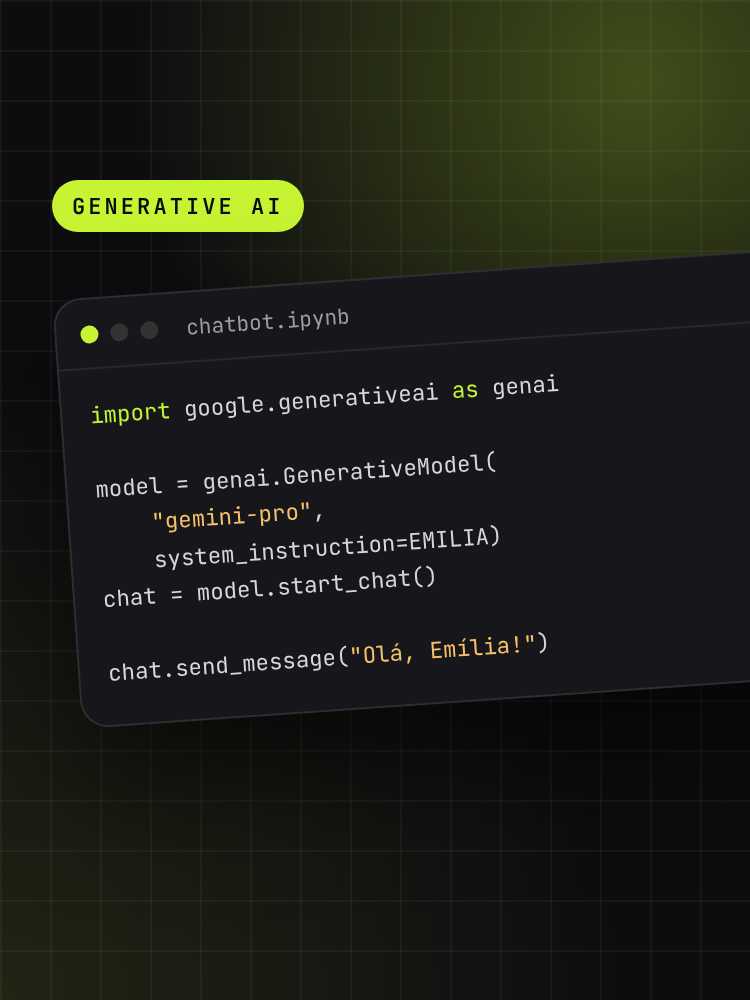
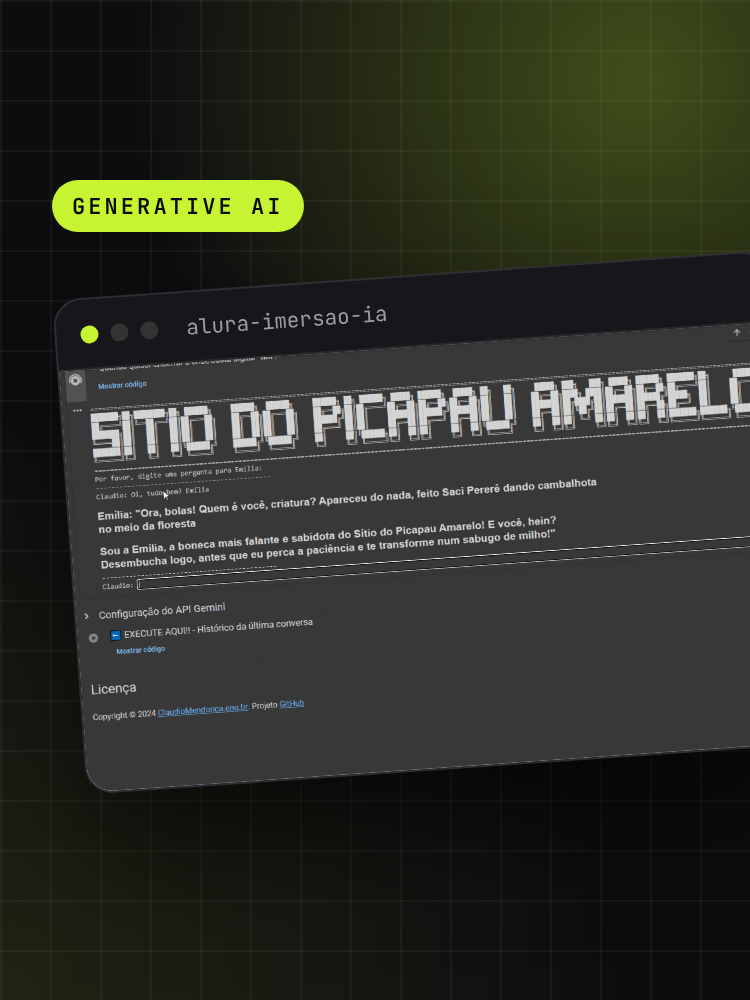
Coloca todos os repositórios próprios no carrossel (37 projetos)
Adiciona 24 cards com os repositórios públicos que faltavam (sem forks
e sem o perfil/site). Capas novas em projects-15..38.png: quando o
README tem print do projeto, ele vira a base da capa; os demais usam
uma janela de código ilustrativa no estilo do site. A capa do chatbot
do Sítio do Picapau Amarelo também passou a usar o print do projeto.
Textos em EN (HTML) e PT (main.js), cards renumerados e contador 37.

Claude-Session: https://claude.ai/code/session_01P6UAmbTko93hFvc8inS2bz

diff --git a/index.html b/index.html
@@ -93,7 +93,7 @@
 
         <div class="cm-container">
           <ul class="cm-stats">
-            <li><strong><span class="cm-count" data-count="13">13</span><em>+</em></strong><span data-i18n="stat1">Featured projects</span></li>
+            <li><strong><span class="cm-count" data-count="37">37</span><em>+</em></strong><span data-i18n="stat1">Featured projects</span></li>
             <li><strong><span class="cm-count" data-count="17">17</span></strong><span data-i18n="stat2">CTF flags captured</span></li>
             <li><strong><span class="cm-count" data-count="3">3</span></strong><span data-i18n="stat3">Professional recommendations</span></li>
           </ul>
@@ -286,6 +286,318 @@
               <p data-i18n="p02Desc">Secret number game.</p>
               <ul class="cm-tags"><li>JavaScript</li><li>HTML</li><li>CSS</li></ul>
               <a class="cm-card__link" href="https://github.com/ClaudioMendonca-Eng/Alura-Oracle-logicadeprog-JavaScript-parte2" target="_blank" rel="noopener"><span data-i18n="viewProject">View project</span> <i class="ri-arrow-right-up-line"></i></a>
+            </div>
+          </article>
+
+          <article class="cm-card" id="project14">
+            <a class="cm-card__media" href="https://github.com/ClaudioMendonca-Eng/ONE-Oracle-Alura-AI-For-Tech" target="_blank" rel="noopener" tabindex="-1" aria-hidden="true">
+              <img src="assets/images/projects-15.png" alt="" loading="lazy" width="375" height="500">
+            </a>
+            <div class="cm-card__body">
+              <span class="cm-card__num">14</span>
+              <h3 data-i18n="p14Title">AI Agents Immersion - Oracle ONE</h3>
+              <p data-i18n="p14Desc">Five-day journey building AI agents: RAG ingestion with embeddings and a vector store, an agent with memory that queries MySQL, and a Telegram integration for real automation.</p>
+              <ul class="cm-tags"><li>n8n</li><li>RAG</li><li>Telegram</li></ul>
+              <a class="cm-card__link" href="https://github.com/ClaudioMendonca-Eng/ONE-Oracle-Alura-AI-For-Tech" target="_blank" rel="noopener"><span data-i18n="viewProject">View project</span> <i class="ri-arrow-right-up-line"></i></a>
+            </div>
+          </article>
+
+          <article class="cm-card" id="project15">
+            <a class="cm-card__media" href="https://github.com/ClaudioMendonca-Eng/Kensei_AI_Foundations" target="_blank" rel="noopener" tabindex="-1" aria-hidden="true">
+              <img src="assets/images/projects-16.png" alt="" loading="lazy" width="375" height="500">
+            </a>
+            <div class="cm-card__body">
+              <span class="cm-card__num">15</span>
+              <h3 data-i18n="p15Title">Kensei AI Foundations</h3>
+              <p data-i18n="p15Desc">Eight-week hands-on track on AI, data and automation: Python from scratch, data analysis with Pandas, interactive dashboards and AI APIs, building a portfolio of real projects.</p>
+              <ul class="cm-tags"><li>Python</li><li>Pandas</li><li>AI</li></ul>
+              <a class="cm-card__link" href="https://github.com/ClaudioMendonca-Eng/Kensei_AI_Foundations" target="_blank" rel="noopener"><span data-i18n="viewProject">View project</span> <i class="ri-arrow-right-up-line"></i></a>
+            </div>
+          </article>
+
+          <article class="cm-card" id="project21">
+            <a class="cm-card__media" href="https://github.com/ClaudioMendonca-Eng/dio-assistentedelivery" target="_blank" rel="noopener" tabindex="-1" aria-hidden="true">
+              <img src="assets/images/projects-22.png" alt="" loading="lazy" width="375" height="500">
+            </a>
+            <div class="cm-card__body">
+              <span class="cm-card__num">16</span>
+              <h3 data-i18n="p21Title">Delivery Assistant - AWS</h3>
+              <p data-i18n="p21Desc">Study of a workflow with AWS Step Functions and Amazon Bedrock to automate a delivery assistant, from receiving the order to the final delivery.</p>
+              <ul class="cm-tags"><li>AWS</li><li>Step Functions</li><li>Bedrock</li></ul>
+              <a class="cm-card__link" href="https://github.com/ClaudioMendonca-Eng/dio-assistentedelivery" target="_blank" rel="noopener"><span data-i18n="viewProject">View project</span> <i class="ri-arrow-right-up-line"></i></a>
+            </div>
+          </article>
+
+          <article class="cm-card" id="project22">
+            <a class="cm-card__media" href="https://github.com/ClaudioMendonca-Eng/dio-desafio-microsoft-copilot-ia" target="_blank" rel="noopener" tabindex="-1" aria-hidden="true">
+              <img src="assets/images/projects-23.png" alt="" loading="lazy" width="375" height="500">
+            </a>
+            <div class="cm-card__body">
+              <span class="cm-card__num">17</span>
+              <h3 data-i18n="p22Title">Microsoft Copilot Challenge</h3>
+              <p data-i18n="p22Desc">Bootcamp project using GitHub Copilot for pair programming, code review and refactoring, plus Copilot Studio and generative AI to speed up everyday work.</p>
+              <ul class="cm-tags"><li>Copilot</li><li>AI</li><li>UML</li></ul>
+              <a class="cm-card__link" href="https://github.com/ClaudioMendonca-Eng/dio-desafio-microsoft-copilot-ia" target="_blank" rel="noopener"><span data-i18n="viewProject">View project</span> <i class="ri-arrow-right-up-line"></i></a>
+            </div>
+          </article>
+
+          <article class="cm-card" id="project24">
+            <a class="cm-card__media" href="https://github.com/ClaudioMendonca-Eng/alura-literatura2024" target="_blank" rel="noopener" tabindex="-1" aria-hidden="true">
+              <img src="assets/images/projects-25.png" alt="" loading="lazy" width="375" height="500">
+            </a>
+            <div class="cm-card__body">
+              <span class="cm-card__num">18</span>
+              <h3 data-i18n="p24Title">LiterAlura</h3>
+              <p data-i18n="p24Desc">Java application that consumes the Gutendex API (Project Gutenberg catalog) and stores books and authors in a relational database.</p>
+              <ul class="cm-tags"><li>Java</li><li>Spring Boot</li><li>SQL</li></ul>
+              <a class="cm-card__link" href="https://github.com/ClaudioMendonca-Eng/alura-literatura2024" target="_blank" rel="noopener"><span data-i18n="viewProject">View project</span> <i class="ri-arrow-right-up-line"></i></a>
+            </div>
+          </article>
+
+          <article class="cm-card" id="project27">
+            <a class="cm-card__media" href="https://github.com/ClaudioMendonca-Eng/alura-screenmatch" target="_blank" rel="noopener" tabindex="-1" aria-hidden="true">
+              <img src="assets/images/projects-28.png" alt="" loading="lazy" width="375" height="500">
+            </a>
+            <div class="cm-card__body">
+              <span class="cm-card__num">19</span>
+              <h3 data-i18n="p27Title">ScreenMatch</h3>
+              <p data-i18n="p27Desc">Java and Spring project that queries series data, ranks the top 5 episodes, searches by date and generates statistics per season using streams.</p>
+              <ul class="cm-tags"><li>Java</li><li>Spring</li><li>Streams</li></ul>
+              <a class="cm-card__link" href="https://github.com/ClaudioMendonca-Eng/alura-screenmatch" target="_blank" rel="noopener"><span data-i18n="viewProject">View project</span> <i class="ri-arrow-right-up-line"></i></a>
+            </div>
+          </article>
+
+          <article class="cm-card" id="project23">
+            <a class="cm-card__media" href="https://github.com/ClaudioMendonca-Eng/dio-desafio-design-patterns-java" target="_blank" rel="noopener" tabindex="-1" aria-hidden="true">
+              <img src="assets/images/projects-24.png" alt="" loading="lazy" width="375" height="500">
+            </a>
+            <div class="cm-card__body">
+              <span class="cm-card__num">20</span>
+              <h3 data-i18n="p23Title">Design Patterns in Java</h3>
+              <p data-i18n="p23Desc">Java project applying the Singleton, Strategy/Repository and Facade patterns, from the Santander Bootcamp 2024 back-end track.</p>
+              <ul class="cm-tags"><li>Java</li><li>Spring</li><li>Patterns</li></ul>
+              <a class="cm-card__link" href="https://github.com/ClaudioMendonca-Eng/dio-desafio-design-patterns-java" target="_blank" rel="noopener"><span data-i18n="viewProject">View project</span> <i class="ri-arrow-right-up-line"></i></a>
+            </div>
+          </article>
+
+          <article class="cm-card" id="project26">
+            <a class="cm-card__media" href="https://github.com/ClaudioMendonca-Eng/dio-lab-banco-digital-poo" target="_blank" rel="noopener" tabindex="-1" aria-hidden="true">
+              <img src="assets/images/projects-27.png" alt="" loading="lazy" width="375" height="500">
+            </a>
+            <div class="cm-card__body">
+              <span class="cm-card__num">21</span>
+              <h3 data-i18n="p26Title">Digital Bank</h3>
+              <p data-i18n="p26Desc">Object-oriented banking solution in Java with checking and savings accounts that support deposits, withdrawals and transfers between accounts.</p>
+              <ul class="cm-tags"><li>Java</li><li>OOP</li><li>CLI</li></ul>
+              <a class="cm-card__link" href="https://github.com/ClaudioMendonca-Eng/dio-lab-banco-digital-poo" target="_blank" rel="noopener"><span data-i18n="viewProject">View project</span> <i class="ri-arrow-right-up-line"></i></a>
+            </div>
+          </article>
+
+          <article class="cm-card" id="project25">
+            <a class="cm-card__media" href="https://github.com/ClaudioMendonca-Eng/dio-desafio-poo" target="_blank" rel="noopener" tabindex="-1" aria-hidden="true">
+              <img src="assets/images/projects-26.png" alt="" loading="lazy" width="375" height="500">
+            </a>
+            <div class="cm-card__body">
+              <span class="cm-card__num">22</span>
+              <h3 data-i18n="p25Title">Bootcamp - Java OOP</h3>
+              <p data-i18n="p25Desc">A bootcamp domain modeled in Java to practice the four OOP pillars: abstraction, encapsulation, inheritance and polymorphism.</p>
+              <ul class="cm-tags"><li>Java</li><li>OOP</li><li>CLI</li></ul>
+              <a class="cm-card__link" href="https://github.com/ClaudioMendonca-Eng/dio-desafio-poo" target="_blank" rel="noopener"><span data-i18n="viewProject">View project</span> <i class="ri-arrow-right-up-line"></i></a>
+            </div>
+          </article>
+
+          <article class="cm-card" id="project28">
+            <a class="cm-card__media" href="https://github.com/ClaudioMendonca-Eng/dio-collections-java-api" target="_blank" rel="noopener" tabindex="-1" aria-hidden="true">
+              <img src="assets/images/projects-29.png" alt="" loading="lazy" width="375" height="500">
+            </a>
+            <div class="cm-card__body">
+              <span class="cm-card__num">23</span>
+              <h3 data-i18n="p28Title">Java Collections API</h3>
+              <p data-i18n="p28Desc">Practical examples of the Java Collections Framework (List, Set and Map) applied to everyday scenarios, from the Santander Bootcamp 2024.</p>
+              <ul class="cm-tags"><li>Java</li><li>Collections</li><li>Generics</li></ul>
+              <a class="cm-card__link" href="https://github.com/ClaudioMendonca-Eng/dio-collections-java-api" target="_blank" rel="noopener"><span data-i18n="viewProject">View project</span> <i class="ri-arrow-right-up-line"></i></a>
+            </div>
+          </article>
+
+          <article class="cm-card" id="project33">
+            <a class="cm-card__media" href="https://github.com/ClaudioMendonca-Eng/Challenge-ONE-Conversor-Moedas-22-04-2024" target="_blank" rel="noopener" tabindex="-1" aria-hidden="true">
+              <img src="assets/images/projects-34.png" alt="" loading="lazy" width="375" height="500">
+            </a>
+            <div class="cm-card__body">
+              <span class="cm-card__num">24</span>
+              <h3 data-i18n="p33Title">Currency Converter</h3>
+              <p data-i18n="p33Desc">Interactive console app in Java that fetches real-time exchange rates from an API and converts between six currency pairs.</p>
+              <ul class="cm-tags"><li>Java</li><li>API</li><li>JSON</li></ul>
+              <a class="cm-card__link" href="https://github.com/ClaudioMendonca-Eng/Challenge-ONE-Conversor-Moedas-22-04-2024" target="_blank" rel="noopener"><span data-i18n="viewProject">View project</span> <i class="ri-arrow-right-up-line"></i></a>
+            </div>
+          </article>
+
+          <article class="cm-card" id="project19">
+            <a class="cm-card__media" href="https://github.com/ClaudioMendonca-Eng/VaiNaWeb-APIfixe" target="_blank" rel="noopener" tabindex="-1" aria-hidden="true">
+              <img src="assets/images/projects-20.png" alt="" loading="lazy" width="375" height="500">
+            </a>
+            <div class="cm-card__body">
+              <span class="cm-card__num">25</span>
+              <h3 data-i18n="p19Title">Rick and Morty API</h3>
+              <p data-i18n="p19Desc">JavaScript exercise that renders an array of objects in HTML with map() and fetches characters dynamically from the Rick and Morty API.</p>
+              <ul class="cm-tags"><li>JavaScript</li><li>API</li><li>Vercel</li></ul>
+              <a class="cm-card__link" href="https://github.com/ClaudioMendonca-Eng/VaiNaWeb-APIfixe" target="_blank" rel="noopener"><span data-i18n="viewProject">View project</span> <i class="ri-arrow-right-up-line"></i></a>
+            </div>
+          </article>
+
+          <article class="cm-card" id="project20">
+            <a class="cm-card__media" href="https://github.com/ClaudioMendonca-Eng/VaiNaWeb-Desafio" target="_blank" rel="noopener" tabindex="-1" aria-hidden="true">
+              <img src="assets/images/projects-21.png" alt="" loading="lazy" width="375" height="500">
+            </a>
+            <div class="cm-card__body">
+              <span class="cm-card__num">26</span>
+              <h3 data-i18n="p20Title">Landing Page from Figma</h3>
+              <p data-i18n="p20Desc">Landing page built from a Figma design with HTML5 and Sass, focused on good coding practices and file organization, deployed on Vercel.</p>
+              <ul class="cm-tags"><li>HTML</li><li>Sass</li><li>Figma</li></ul>
+              <a class="cm-card__link" href="https://github.com/ClaudioMendonca-Eng/VaiNaWeb-Desafio" target="_blank" rel="noopener"><span data-i18n="viewProject">View project</span> <i class="ri-arrow-right-up-line"></i></a>
+            </div>
+          </article>
+
+          <article class="cm-card" id="project30">
+            <a class="cm-card__media" href="https://github.com/ClaudioMendonca-Eng/Alura-Oracle-HTMLeCSS" target="_blank" rel="noopener" tabindex="-1" aria-hidden="true">
+              <img src="assets/images/projects-31.png" alt="" loading="lazy" width="375" height="500">
+            </a>
+            <div class="cm-card__body">
+              <span class="cm-card__num">27</span>
+              <h3 data-i18n="p30Title">HTML and CSS - Oracle ONE</h3>
+              <p data-i18n="p30Desc">First steps with HTML and CSS in the Oracle ONE program, building a portfolio page with semantic structure and styling.</p>
+              <ul class="cm-tags"><li>HTML</li><li>CSS</li><li>Vercel</li></ul>
+              <a class="cm-card__link" href="https://github.com/ClaudioMendonca-Eng/Alura-Oracle-HTMLeCSS" target="_blank" rel="noopener"><span data-i18n="viewProject">View project</span> <i class="ri-arrow-right-up-line"></i></a>
+            </div>
+          </article>
+
+          <article class="cm-card" id="project16">
+            <a class="cm-card__media" href="https://github.com/ClaudioMendonca-Eng/Ja-e-Natal-Na-Vai-na-Web" target="_blank" rel="noopener" tabindex="-1" aria-hidden="true">
+              <img src="assets/images/projects-17.png" alt="" loading="lazy" width="375" height="500">
+            </a>
+            <div class="cm-card__body">
+              <span class="cm-card__num">28</span>
+              <h3 data-i18n="p16Title">Christmas Card - Vai na Web</h3>
+              <p data-i18n="p16Desc">Interactive Christmas page made for the Vai na Web community challenge, with a personalized greeting card that can be downloaded.</p>
+              <ul class="cm-tags"><li>HTML</li><li>CSS</li><li>JavaScript</li></ul>
+              <a class="cm-card__link" href="https://github.com/ClaudioMendonca-Eng/Ja-e-Natal-Na-Vai-na-Web" target="_blank" rel="noopener"><span data-i18n="viewProject">View project</span> <i class="ri-arrow-right-up-line"></i></a>
+            </div>
+          </article>
+
+          <article class="cm-card" id="project18">
+            <a class="cm-card__media" href="https://github.com/ClaudioMendonca-Eng/VaiNaWeb-PhytonDesafio1" target="_blank" rel="noopener" tabindex="-1" aria-hidden="true">
+              <img src="assets/images/projects-19.png" alt="" loading="lazy" width="375" height="500">
+            </a>
+            <div class="cm-card__body">
+              <span class="cm-card__num">29</span>
+              <h3 data-i18n="p18Title">Python Challenge - Vai na Web</h3>
+              <p data-i18n="p18Desc">A set of Python missions to restore a school system hacked by a virus: checking grades, access permissions and security rules.</p>
+              <ul class="cm-tags"><li>Python</li><li>Logic</li><li>CLI</li></ul>
+              <a class="cm-card__link" href="https://github.com/ClaudioMendonca-Eng/VaiNaWeb-PhytonDesafio1" target="_blank" rel="noopener"><span data-i18n="viewProject">View project</span> <i class="ri-arrow-right-up-line"></i></a>
+            </div>
+          </article>
+
+          <article class="cm-card" id="project31">
+            <a class="cm-card__media" href="https://github.com/ClaudioMendonca-Eng/dio-trilha-java-basico-controle-fluxo" target="_blank" rel="noopener" tabindex="-1" aria-hidden="true">
+              <img src="assets/images/projects-32.png" alt="" loading="lazy" width="375" height="500">
+            </a>
+            <div class="cm-card__body">
+              <span class="cm-card__num">30</span>
+              <h3 data-i18n="p31Title">Counter - Flow Control</h3>
+              <p data-i18n="p31Desc">Console counter in Java that takes two numbers from the terminal and exercises conditionals, loops and custom exceptions.</p>
+              <ul class="cm-tags"><li>Java</li><li>CLI</li><li>Exceptions</li></ul>
+              <a class="cm-card__link" href="https://github.com/ClaudioMendonca-Eng/dio-trilha-java-basico-controle-fluxo" target="_blank" rel="noopener"><span data-i18n="viewProject">View project</span> <i class="ri-arrow-right-up-line"></i></a>
+            </div>
+          </article>
+
+          <article class="cm-card" id="project32">
+            <a class="cm-card__media" href="https://github.com/ClaudioMendonca-Eng/dio-trilha-java-basico" target="_blank" rel="noopener" tabindex="-1" aria-hidden="true">
+              <img src="assets/images/projects-33.png" alt="" loading="lazy" width="375" height="500">
+            </a>
+            <div class="cm-card__body">
+              <span class="cm-card__num">31</span>
+              <h3 data-i18n="p32Title">Java Bank - Account Opening</h3>
+              <p data-i18n="p32Desc">Console challenge from DIO's Java Developer track that registers a customer and opens a bank account, practicing the language fundamentals.</p>
+              <ul class="cm-tags"><li>Java</li><li>CLI</li><li>OOP</li></ul>
+              <a class="cm-card__link" href="https://github.com/ClaudioMendonca-Eng/dio-trilha-java-basico" target="_blank" rel="noopener"><span data-i18n="viewProject">View project</span> <i class="ri-arrow-right-up-line"></i></a>
+            </div>
+          </article>
+
+          <article class="cm-card" id="project29">
+            <a class="cm-card__media" href="https://github.com/ClaudioMendonca-Eng/dio-trilha-java-basico-poo-desafio" target="_blank" rel="noopener" tabindex="-1" aria-hidden="true">
+              <img src="assets/images/projects-30.png" alt="" loading="lazy" width="375" height="500">
+            </a>
+            <div class="cm-card__body">
+              <span class="cm-card__num">32</span>
+              <h3 data-i18n="p29Title">iPhone UML - OOP</h3>
+              <p data-i18n="p29Desc">UML class diagram modeling the iPhone's roles as music player, phone and web browser, based on its launch keynote.</p>
+              <ul class="cm-tags"><li>UML</li><li>OOP</li><li>Java</li></ul>
+              <a class="cm-card__link" href="https://github.com/ClaudioMendonca-Eng/dio-trilha-java-basico-poo-desafio" target="_blank" rel="noopener"><span data-i18n="viewProject">View project</span> <i class="ri-arrow-right-up-line"></i></a>
+            </div>
+          </article>
+
+          <article class="cm-card" id="project34">
+            <a class="cm-card__media" href="https://github.com/ClaudioMendonca-Eng/CS50_Harvard-CC50_Ifood" target="_blank" rel="noopener" tabindex="-1" aria-hidden="true">
+              <img src="assets/images/projects-35.png" alt="" loading="lazy" width="375" height="500">
+            </a>
+            <div class="cm-card__body">
+              <span class="cm-card__num">33</span>
+              <h3 data-i18n="p34Title">CS50 - Harvard</h3>
+              <p data-i18n="p34Desc">Notes and exercises from Harvard's CS50 introduction to computer science, starting with a Google Dinosaur game made in Scratch and moving on to C, arrays and algorithms.</p>
+              <ul class="cm-tags"><li>C</li><li>Scratch</li><li>Algorithms</li></ul>
+              <a class="cm-card__link" href="https://github.com/ClaudioMendonca-Eng/CS50_Harvard-CC50_Ifood" target="_blank" rel="noopener"><span data-i18n="viewProject">View project</span> <i class="ri-arrow-right-up-line"></i></a>
+            </div>
+          </article>
+
+          <article class="cm-card" id="project35">
+            <a class="cm-card__media" href="https://github.com/ClaudioMendonca-Eng/Alura-Oracle-logicadeprog-JavaScript" target="_blank" rel="noopener" tabindex="-1" aria-hidden="true">
+              <img src="assets/images/projects-36.png" alt="" loading="lazy" width="375" height="500">
+            </a>
+            <div class="cm-card__body">
+              <span class="cm-card__num">34</span>
+              <h3 data-i18n="p35Title">Programming Logic - JavaScript</h3>
+              <p data-i18n="p35Desc">Programming logic fundamentals with JavaScript in the Oracle ONE program, building a secret number game step by step.</p>
+              <ul class="cm-tags"><li>JavaScript</li><li>HTML</li><li>CSS</li></ul>
+              <a class="cm-card__link" href="https://github.com/ClaudioMendonca-Eng/Alura-Oracle-logicadeprog-JavaScript" target="_blank" rel="noopener"><span data-i18n="viewProject">View project</span> <i class="ri-arrow-right-up-line"></i></a>
+            </div>
+          </article>
+
+          <article class="cm-card" id="project36">
+            <a class="cm-card__media" href="https://github.com/ClaudioMendonca-Eng/Udemy-Docker-Ferramenta-essencial-para-Desenvolvedores" target="_blank" rel="noopener" tabindex="-1" aria-hidden="true">
+              <img src="assets/images/projects-37.png" alt="" loading="lazy" width="375" height="500">
+            </a>
+            <div class="cm-card__body">
+              <span class="cm-card__num">35</span>
+              <h3 data-i18n="p36Title">Docker for Developers</h3>
+              <p data-i18n="p36Desc">Study notes and exercises on Docker: images, containers, networks, Docker Compose and multi-container projects, including an email worker service.</p>
+              <ul class="cm-tags"><li>Docker</li><li>Compose</li><li>Linux</li></ul>
+              <a class="cm-card__link" href="https://github.com/ClaudioMendonca-Eng/Udemy-Docker-Ferramenta-essencial-para-Desenvolvedores" target="_blank" rel="noopener"><span data-i18n="viewProject">View project</span> <i class="ri-arrow-right-up-line"></i></a>
+            </div>
+          </article>
+
+          <article class="cm-card" id="project17">
+            <a class="cm-card__media" href="https://github.com/ClaudioMendonca-Eng/pipe-mario" target="_blank" rel="noopener" tabindex="-1" aria-hidden="true">
+              <img src="assets/images/projects-18.png" alt="" loading="lazy" width="375" height="500">
+            </a>
+            <div class="cm-card__body">
+              <span class="cm-card__num">36</span>
+              <h3 data-i18n="p17Title">Pipe Mario - Useful Links</h3>
+              <p data-i18n="p17Desc">A curated collection of useful links on programming, development tools, productivity, design and learning, gathered in one place.</p>
+              <ul class="cm-tags"><li>Markdown</li><li>Resources</li><li>Dev tools</li></ul>
+              <a class="cm-card__link" href="https://github.com/ClaudioMendonca-Eng/pipe-mario" target="_blank" rel="noopener"><span data-i18n="viewProject">View project</span> <i class="ri-arrow-right-up-line"></i></a>
+            </div>
+          </article>
+
+          <article class="cm-card" id="project37">
+            <a class="cm-card__media" href="https://github.com/ClaudioMendonca-Eng/oldnpm" target="_blank" rel="noopener" tabindex="-1" aria-hidden="true">
+              <img src="assets/images/projects-38.png" alt="" loading="lazy" width="375" height="500">
+            </a>
+            <div class="cm-card__body">
+              <span class="cm-card__num">37</span>
+              <h3 data-i18n="p37Title">Old NPM</h3>
+              <p data-i18n="p37Desc">Archive of old npm packages kept for reference.</p>
+              <ul class="cm-tags"><li>Node.js</li><li>npm</li><li>Archive</li></ul>
+              <a class="cm-card__link" href="https://github.com/ClaudioMendonca-Eng/oldnpm" target="_blank" rel="noopener"><span data-i18n="viewProject">View project</span> <i class="ri-arrow-right-up-line"></i></a>
             </div>
           </article>
 

diff --git a/assets/js/main.js b/assets/js/main.js
@@ -50,6 +50,54 @@
 		p12Desc: 'Chatbot criado com Gemini e Google AI Studio na Imersão IA da Alura, que permite conversar com os personagens das histórias clássicas de Monteiro Lobato.',
 		p13Title: 'Livraria - React e Sass',
 		p13Desc: 'Front-end com várias páginas feito em React, React Router e SCSS Modules, com componentes reutilizáveis, formulário com validação e deploy na Vercel.',
+		p14Title: 'Imersão Agentes de IA - Oracle ONE',
+		p14Desc: 'Jornada de cinco dias construindo agentes de IA: ingestão com RAG, embeddings e vector store, um agente com memória que consulta MySQL e integração com o Telegram para automação real.',
+		p15Title: 'Kensei AI Foundations',
+		p15Desc: 'Trilha prática de oito semanas em IA, dados e automação: Python do zero, análise de dados com Pandas, dashboards interativos e APIs de IA, montando um portfólio de projetos reais.',
+		p21Title: 'Assistente de Delivery - AWS',
+		p21Desc: 'Estudo de um fluxo de trabalho com AWS Step Functions e Amazon Bedrock para automatizar um assistente de delivery, do recebimento do pedido até a entrega final.',
+		p22Title: 'Desafio Microsoft Copilot',
+		p22Desc: 'Projeto de bootcamp usando o GitHub Copilot em pair programming, revisão de código e refatoração, além do Copilot Studio e de IA generativa para agilizar o dia a dia.',
+		p24Title: 'LiterAlura',
+		p24Desc: 'Aplicação Java que consome a API Gutendex (catálogo do Project Gutenberg) e guarda livros e autores em um banco de dados relacional.',
+		p27Title: 'ScreenMatch',
+		p27Desc: 'Projeto em Java e Spring que consulta dados de séries, lista os 5 melhores episódios, busca por data e gera estatísticas por temporada usando streams.',
+		p23Title: 'Padrões de Projeto em Java',
+		p23Desc: 'Projeto Java aplicando os padrões Singleton, Strategy/Repository e Facade, da trilha back-end do Santander Bootcamp 2024.',
+		p26Title: 'Banco Digital',
+		p26Desc: 'Solução bancária orientada a objetos em Java, com contas corrente e poupança que fazem depósito, saque e transferência entre contas.',
+		p25Title: 'Bootcamp - POO em Java',
+		p25Desc: 'Domínio de um bootcamp modelado em Java para praticar os quatro pilares da POO: abstração, encapsulamento, herança e polimorfismo.',
+		p28Title: 'API de Collections em Java',
+		p28Desc: 'Exemplos práticos do Collections Framework do Java (List, Set e Map) aplicados a cenários do dia a dia, do Santander Bootcamp 2024.',
+		p33Title: 'Conversor de Moedas',
+		p33Desc: 'Aplicação interativa de console em Java que busca cotações em tempo real numa API e converte entre seis pares de moedas.',
+		p19Title: 'API Rick and Morty',
+		p19Desc: 'Exercício em JavaScript que renderiza um array de objetos no HTML com map() e busca personagens dinamicamente na API do Rick and Morty.',
+		p20Title: 'Landing page a partir do Figma',
+		p20Desc: 'Landing page construída a partir de um layout no Figma com HTML5 e Sass, com foco em boas práticas e organização de arquivos, publicada na Vercel.',
+		p30Title: 'HTML e CSS - Oracle ONE',
+		p30Desc: 'Primeiros passos com HTML e CSS no programa Oracle ONE, construindo uma página de portfólio com estrutura semântica e estilização.',
+		p16Title: 'Cartão de Natal - Vai na Web',
+		p16Desc: 'Página interativa de Natal feita para o desafio da comunidade Vai na Web, com um cartão personalizado que pode ser baixado.',
+		p18Title: 'Desafio Python - Vai na Web',
+		p18Desc: 'Conjunto de missões em Python para restaurar o sistema de uma escola invadido por um vírus: verificação de notas, permissões de acesso e regras de segurança.',
+		p31Title: 'Contador - Controle de Fluxo',
+		p31Desc: 'Contador de console em Java que recebe dois números pelo terminal e pratica condicionais, laços e exceções personalizadas.',
+		p32Title: 'Banco Java - Abertura de conta',
+		p32Desc: 'Desafio de console da formação Java Developer da DIO que cadastra um cliente e abre uma conta bancária, praticando os fundamentos da linguagem.',
+		p29Title: 'UML do iPhone - POO',
+		p29Desc: 'Diagrama de classes UML que modela os papéis do iPhone como reprodutor musical, telefone e navegador, com base no vídeo de lançamento.',
+		p34Title: 'CS50 - Harvard',
+		p34Desc: 'Anotações e exercícios do CS50 de Harvard, curso introdutório de Ciência da Computação, começando por um jogo do Dinossauro do Google em Scratch e seguindo para C, arrays e algoritmos.',
+		p35Title: 'Lógica de Programação - JavaScript',
+		p35Desc: 'Fundamentos de lógica de programação com JavaScript no programa Oracle ONE, construindo passo a passo um jogo do número secreto.',
+		p36Title: 'Docker para Desenvolvedores',
+		p36Desc: 'Anotações e exercícios sobre Docker: imagens, containers, redes, Docker Compose e projetos com vários containers, incluindo um serviço de envio de e-mails com workers.',
+		p17Title: 'Pipe Mario - Links úteis',
+		p17Desc: 'Coleção de links úteis sobre programação, ferramentas de desenvolvimento, produtividade, design e aprendizado, reunidos em um só lugar.',
+		p37Title: 'Old NPM',
+		p37Desc: 'Arquivo de pacotes npm antigos guardados para consulta.',
 		p04Title: 'Relatório de Pentest - Desafio Final CTF',
 		p04Desc: 'Teste de penetração completo em aplicação web, capturando 17 flags em vulnerabilidades críticas: SQL Injection, XSS, falhas de controle de acesso e exposição de credenciais.',
 		p05Title: 'Formação em Cybersecurity - Módulo 2',
